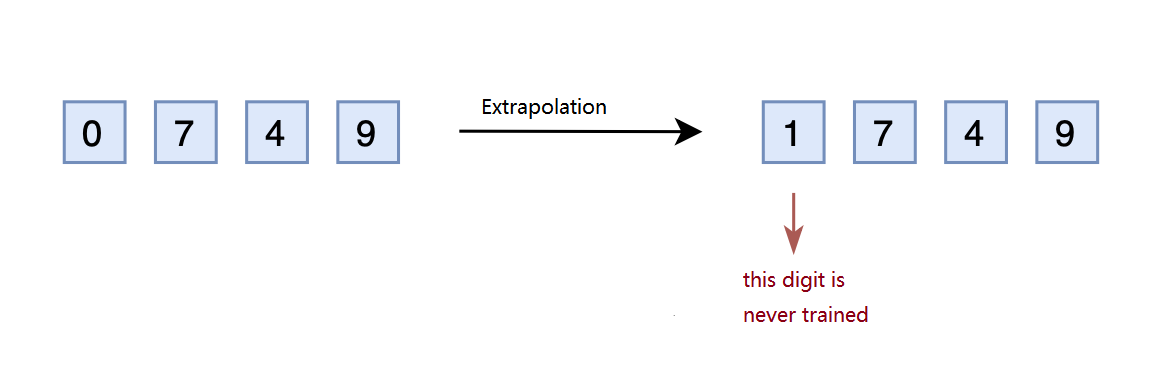
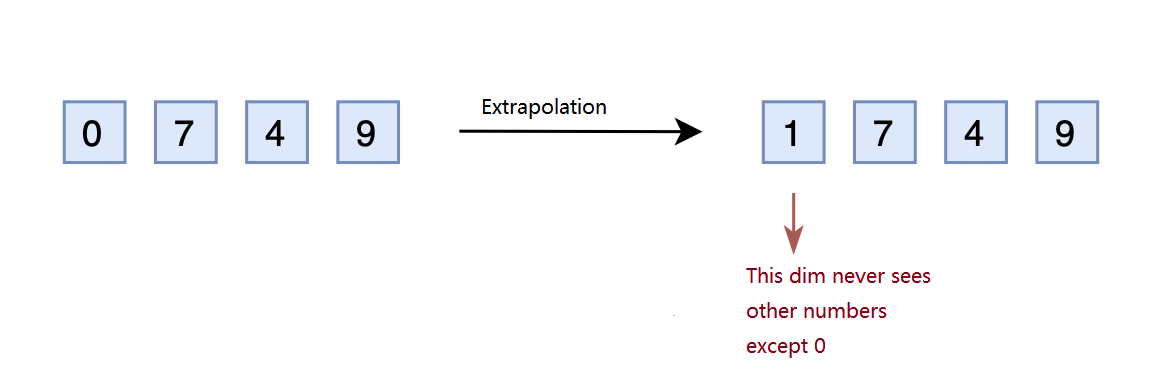
add a new blog

Changed region(s): [[0.6207, 0.6984, 0.8069, 0.7857], [0.6207, 0.7857, 0.7759, 0.873], [0.6207, 0.9021, 0.7138, 0.9312]]

diff --git a/_posts/2023-08-09-A-Potential-Rotation-Inconsistency of-Dynamic-Scaled RoPE.md b/_posts/2023-08-09-A-Potential-Rotation-Inconsistency of-Dynamic-Scaled RoPE.md
@@ -1,0 +1,158 @@
+Weeks ago, [u/emozilla](https://www.reddit.com/user/emozilla) proposed an improvement on NTK-Aware RoPR in this [post](https://www.reddit.com/r/LocalLLaMA/comments/14mrgpr/dynamically_scaled_rope_further_increases/?utm_source=share&utm_medium=web2x&context=3), later named DynamicNTKScalingRotaryEmbedding. 
+
+The main idea behind Dynamic NTK involves incorporating a scaling factor relative to the present decoding sequence length to improve the base functionality， which means that if we represent the base of NTKRoPE as:
+
+$$\theta_j = (\alpha^{dim/dim-2} \times 10000)^{-2j/dim}$$ 
+
+$$\alpha$$ is the scale of the max sequence length we extend by interpolation w.r.t. the pretrained max sequence length.
+
+Then the Dynamic NTK is to scale up the $$\alpha$$ as:
+
+$$\alpha_{\text{dynamicNTK}} = \alpha * \frac{\text{max_seq + scale * (seq - max_seq)}}{\text{max_seq}}$$
+
+$$\text{max_seq}$$ is max sequence length of pretrained model, for example, for LLaMA-1-7B, $$\text{max_seq} = 2048$$; $$\text{seq}$$ is the current generated sequence ; 
+
+According to the equation, we can see that as the sequence length keeps growing, the scaling factor continues to increase as well, which means the larger the base, the slower the rotation speed along all dimensions.
+
+However, there appears to be a possible rotation inconsistency that could result in a relative position mismatch between the key and query as the sequence length increases.
+
+
+
+### Inconsistency Problem
+
+Let's denote
+
+```python
+key_states = self.k_proj(hidden_states)
+```
+
+when the decoder tries to generate the 100th token, $$\text{seq}=100$$ and the ``key_states`` at the index $$j$$ is rotated based on a base  
+
+$$\alpha_1 = \alpha * \frac{\text{max_seq} + \text{scale} * (100 - \text{max_seq)}}{\text{max_seq}}$$
+
+when the decoder tries to generate the 200th token, $$\text{seq}=200$$ and the ``key_states`` at index $$j$$ is rotated based on a base
+
+$$\alpha_2 = \alpha * \frac{\text{max_seq} + \text{scale} * (200 - \text{max_seq)}}{\text{max_seq}}$$
+
+You can clearly see that these two $$\alpha$$ are different.
+
+
+
+Since we cache the key in almost every decoder implementation, the multiplication between the key and the query we conduct can be written as:
+
+$$\text{K}\text{Q}^ T =  [r(k_0, \alpha_0), r(k_1, \alpha_1), r(k_2, \alpha_2)] * r(q, \alpha_2) $$           **(eq1)**
+
+$$r(k, \alpha)$$: apply RoPE on the key with a rotation base $$\alpha$$
+
+you can notice there is an inconsistency rotation base between the key and query.
+
+
+
+From my understanding, a consistent rotation between key and query should be like this:
+
+Firstly,
+
+$$\text{K}\text{Q}^ T =  [r(k_0, \alpha_1), r(k_1, \alpha_1)] * r(q, \alpha_1) $$               **(eq2)**
+
+when seq length increasing
+
+$$\text{K}\text{Q}^ T =  [r(k_0, \alpha_2), r(k_1, \alpha_2), r(k_2, \alpha_2)] * r(q, \alpha_2) $$             **(eq3)**
+
+The relative position introduced by RoPE between all keys and queries in **eq3** looks more reasonable when compared to **eq1**.
+
+I believe that, from a mathematical perspective, keeping consistency in the rotation base could potentially enhance the language model's ability to learn relative positions more effectively. My intuition suggests that this consistency might offer advantages in capturing relative position information.
+
+
+
+### Gap between Evaluation and Inference
+
+There is a gap between how we compute perplexity and how the LLM actually generates tokens. 
+
+During the decoding process in any layer of decoders, the ``key_states`` and ``query_states`` are computed with the hidden features, and they are rotated based on a fixed ``seq_len``, representing the context length. However, while decoding, LLM usually reuses previous cached keys which are rotated based on factors related to ``seq_len`` to save memory. As the ``seq_Len`` keeps increasing, inconsistency arises between keys and queries. 
+
+Therefore, our current evaluation methods are unable to accurately reflect whether such inconsistency in Dynamic NTK RoPE can harm perplexity or not. In other words, the way how we currently compute perplexity is more like we keep the rotation base consistent.
+
+To mitigate such a gap between perplexity evaluation and inference, I modified the codes about applying the rotary embedding on keys and queries in this [repo](https://github.com/NormXU/Consistent-DynamicNTKRoPE) and do simple experiments on Llama1-7B.
+
+After modification, the perplexity is computed like this:
+
+![inconsistent](https://github.com/NormXU/Consistent-DynamicNTKRoPE/blob/main/doc/inconsistent.png?raw=true)
+
+**$$K(\alpha(x))$$ means, the key is rotated by a rotation matrix whose base is a function of $$n$$**
+
+Here are some results:
+
+![ppl](https://github.com/NormXU/Consistent-DynamicNTKRoPE/blob/main/doc/ppl.png?raw=true)
+
+**Figure 1**, Perplexity value on Llama1-7B, a 2k max sequence length model, values above 12.0 are cut off for concise; Vanilla: RoPE w/o any interpolation; NTK: DynamicNTK when scale=1; Consistent DynamicNTK: keep rotation base between keys consistent, current huggingface implementations; Inconsistent DynamicNTK: keep rotation base between keys inconsistent w.r.t context length;
+
+
+
+We can see from Figure 1 that when keeping the rotation base between keys inconsistent w.r.t context length, the perplexity significantly increases, indicating DynamicNTK harms the performances. This finding might initially seem counterintuitive.
+
+However, as the sequence length continues to grow, we can notice a gradual reduction in perplexity for inconsistent Dynamic NTKScale RoPE. Interestingly, the inconsistent Dynamic NTKScale RoPE outperforms the NTKScale RoPE in terms of perplexity when the sequence length exceeds $$5,000$$.
+
+This may suggest why we tend to ignore the inconsistency in the rotation because it does benefit a longer context beyond a certain sequence length. Please check **Table 1** for more detailed ppl value.
+
+
+
+| Lenth | Consistent Dynamic NTKScale PPL | Inconsistent Dynamic NTKScale PPL | NTKScale PPL       |
+| ----- | ------------------------------- | --------------------------------- | ------------------ |
+| 2800  | 4.285102386474609               | 10.203343925476075                | 4.301338438987732  |
+| 3600  | 4.371902356147766               | 9.213108296394347                 | 5.401671919822693  |
+| 5600  | 4.536222472190857               | 8.04413757801056                  | 10.291163015365601 |
+| 7200  | 4.7303602981567385              | 7.674421100616455                 | 15.359781618118285 |
+| 8000  | 4.932255864143372               | 7.7100021314620975                | 15.884212293624877 |
+
+**Table 1:** PPL Value of Different NTKScale Methods
+
+
+
+### Latency of consistent vs inconsistent dynamic scaling
+
+The main difference between [my implementations](https://github.com/NormXU/Consistent-DynamicNTKRoPE/blob/main/scale_rope/consistent_rope_for_llama_patch.py#L53-L64) and huggingface's is as follows:
+
+In the former approach, all keys are cached before RoPE is applied to a length-increasing key_states list. The latter one applies RoPE only to a single key_state. Therefore, we just need to confirm whether applying RoPE on a length-increasing key_states list will take more time than applying it to a single key_state.
+
+Here is the exec time of `apply_rotary_pos_emb` in consistent DynamicNTKScale RoPE on LLaMA-7B (32 layers)
+
+| seq_length | exec time (ms) | seq_length | exec time (ms) |
+| ---------- | -------------- | ---------- | -------------- |
+| 16         | 56.32          | 528        | 206.08         |
+| 32         | 44.48          | 544        | 194.88         |
+| 48         | 39.68          | 560        | 197.44         |
+| 64         | 30.72          | 576        | 215.36         |
+| 80         | 43.84          | 592        | 207.04         |
+| 96         | 25.28          | 608        | 211.52         |
+| 112        | 26.24          | 624        | 220.16         |
+| 128        | 24.32          | 640        | 227.84         |
+| 144        | 35.2           | 656        | 245.76         |
+| 160        | 26.88          | 672        | 238.4          |
+| 176        | 71.68          | 688        | 248.64         |
+| 192        | 65.6           | 704        | 246.72         |
+| 208        | 95.04          | 720        | 270.08         |
+| 432        | 161.28         | 944        | 356.48         |
+| 448        | 164.16         | 960        | 367.36         |
+| 464        | 172.8          | 976        | 354.56         |
+| 480        | 177.92         | 992        | 365.12         |
+| 496        | 178.88         | 1008       | 407.68         |
+
+You can find the exec time eval script [here](https://github.com/NormXU/Consistent-DynamicNTKRoPE/blob/main/eval_exec_time.py): 
+According to the table above: The throughput of consistent is impaired compared to that of dynamic's.
+
+
+
+### Limitation
+
+In fact, I haven't found any practical downstream tasks where the consistent RoPE can bring significant performance boost. The only advantage convinces me to replace it is its potential to achieve better perplexity scores when dealing with very long contexts.. Therefore, it looks, it is not necessary to correct this inconsistency in the RoPE. Speed does matter more than correctness :)
+
+Still, my experiments have some limitations. I only test it on one dataset with limited samples. I hope my finds can be helpful to you. If there is any mistake in my codes or experiments, I'll appreciate it if you could kindly point it out. Please feel free to raise an issue in the repo as well.
+
+
+
+### TL;DL
+
+- The huggingface implementation of DynamicNTK RoPE  introduces inconsistency in rotation base between keys
+- Current perplexity evaluation cannot faithfully reflect whether the inconsistency problem can harm the perplexity.
+- The DynamicNTK RoPE scaling can be fixed with `use_cache=False`, at the cost of speed.
+
